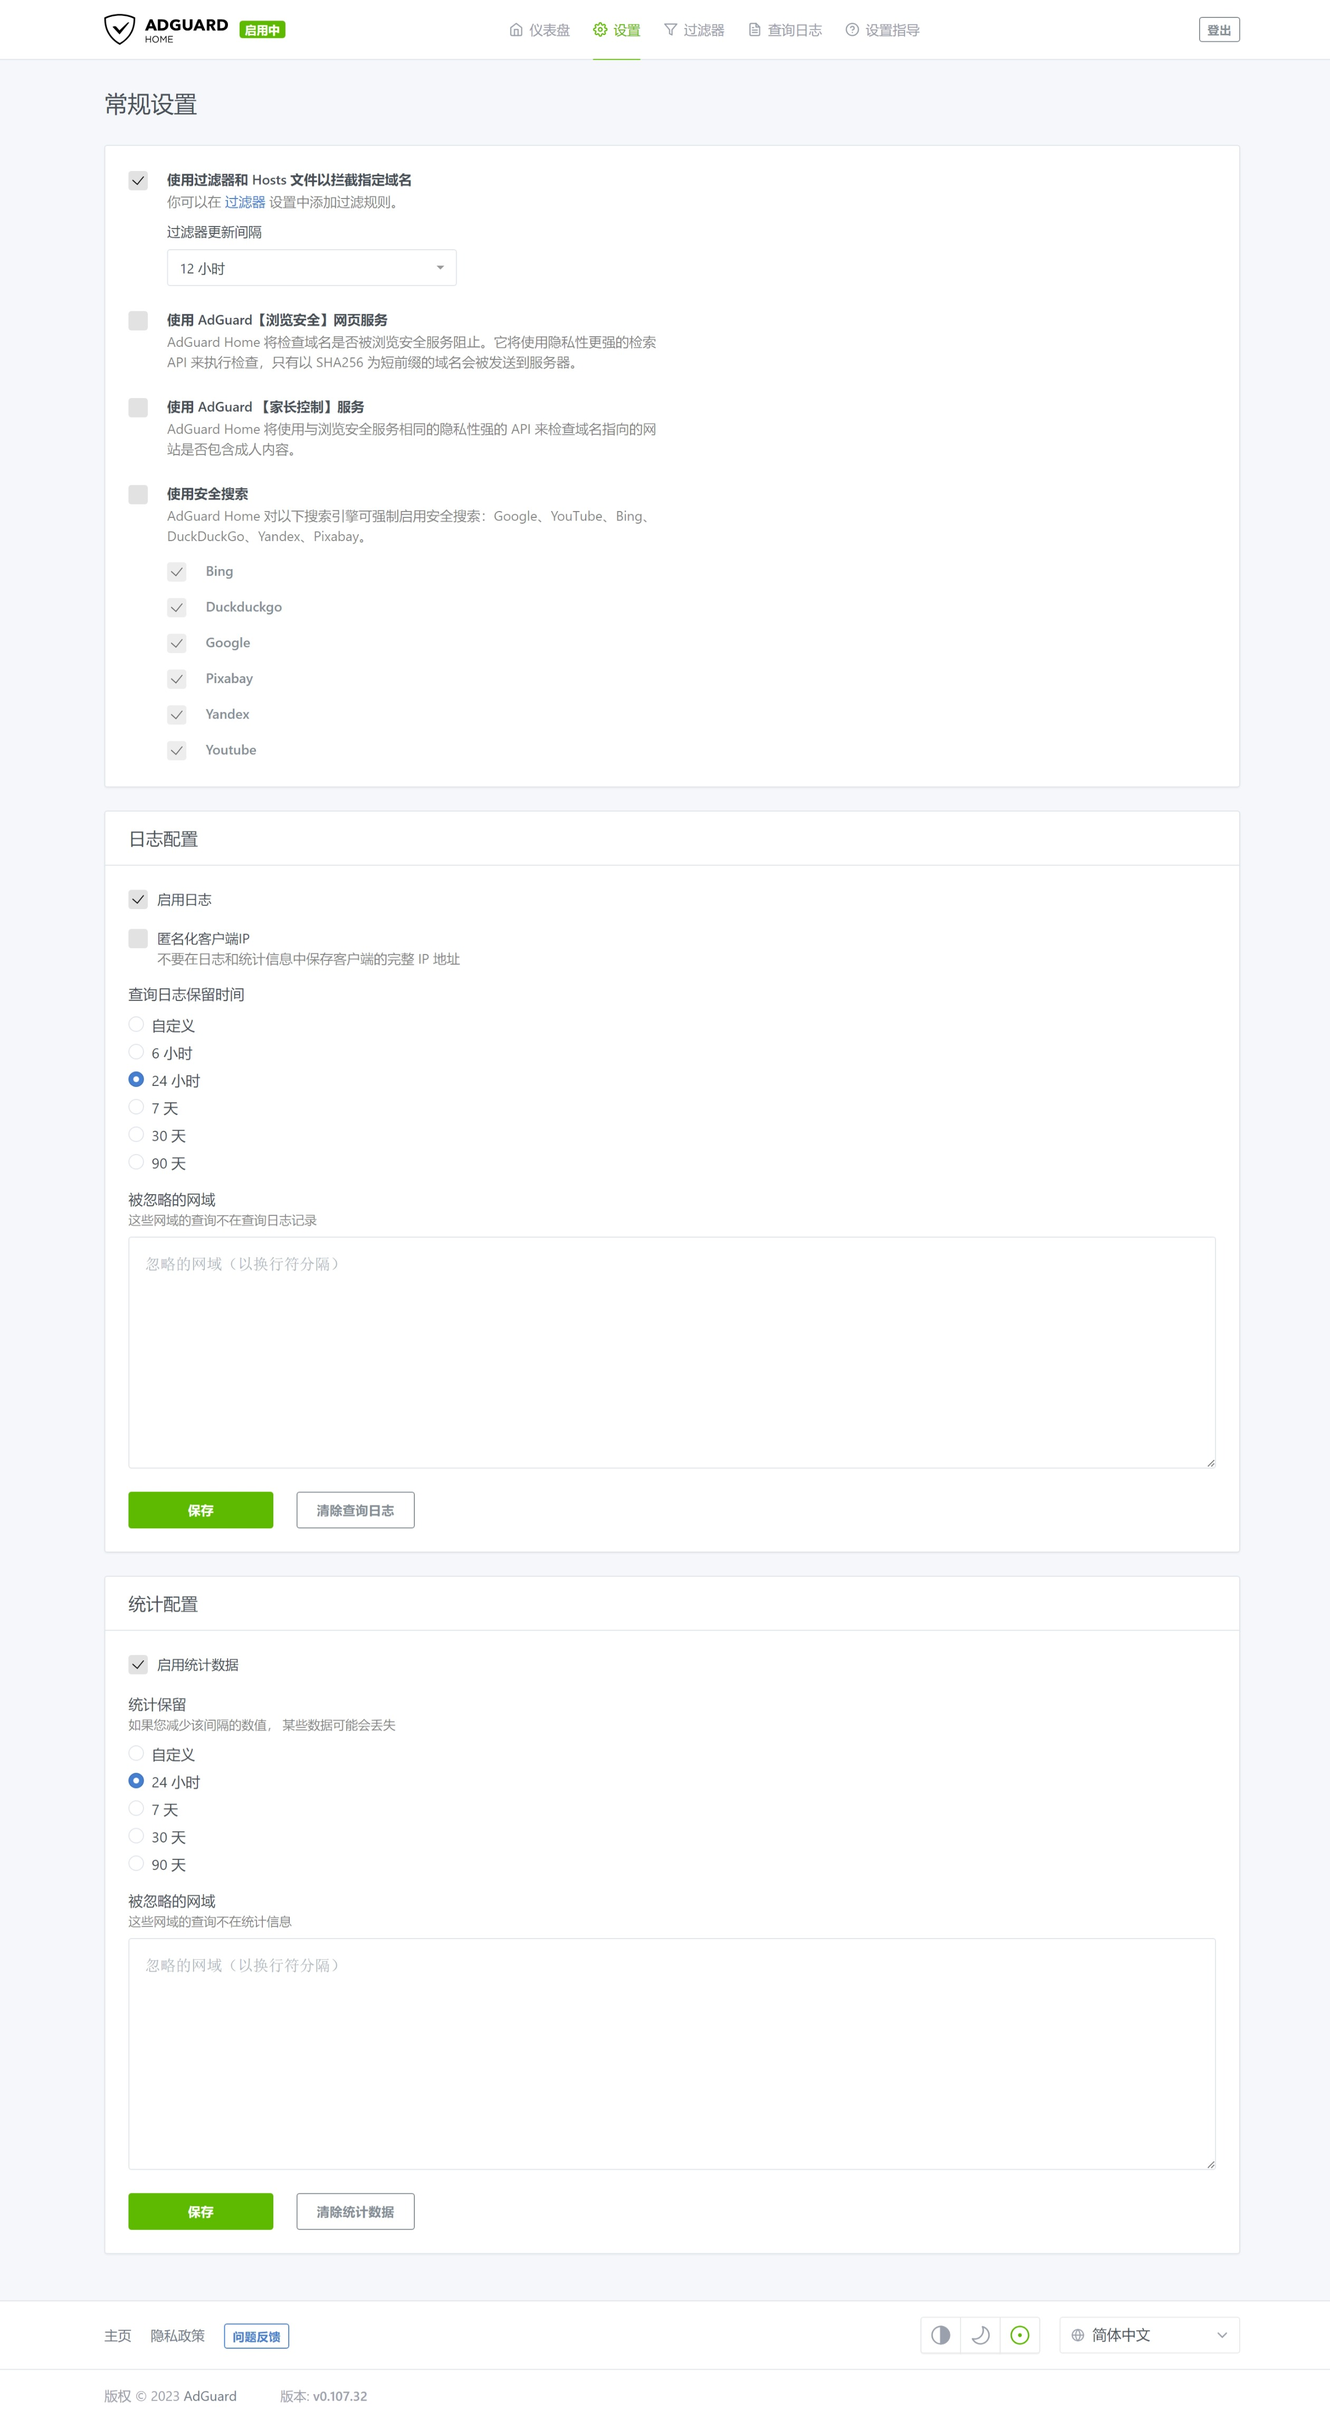
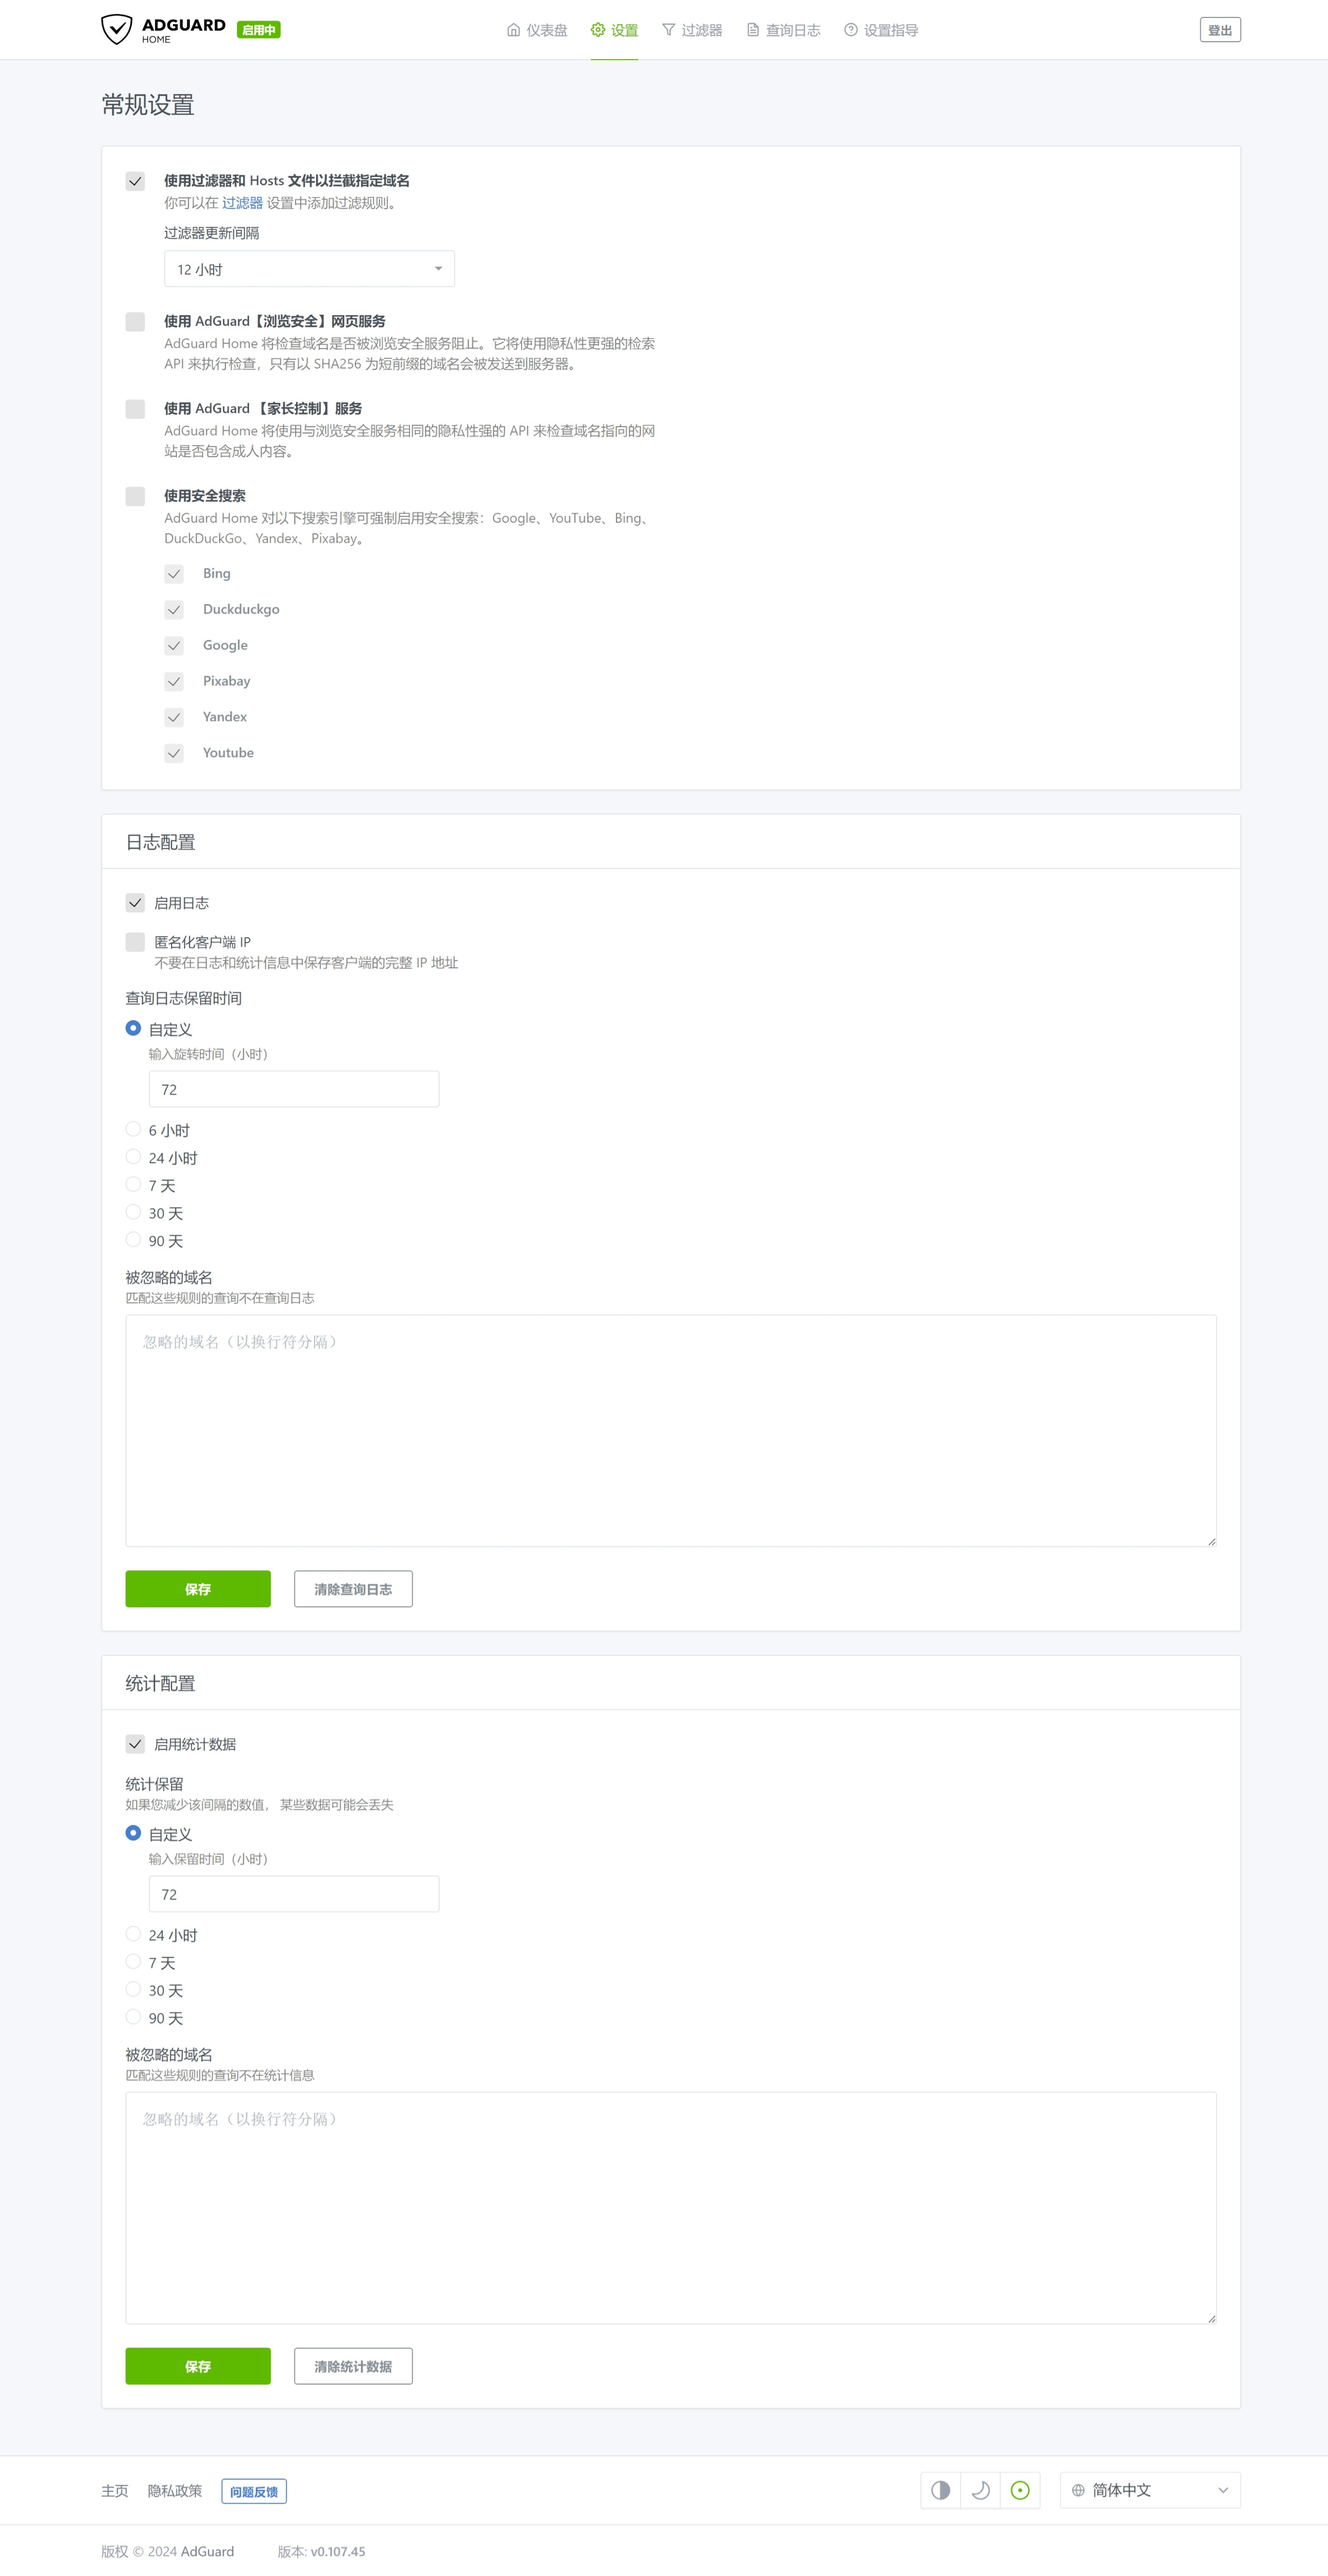
同步更新

diff --git a/01.AGH功能设置.md b/01.AGH功能设置.md
@@ -23,9 +23,9 @@ Adguard Home 的仪表盘将显示近期的一些统计数据。
 |常规设置|使用过滤器和 Hosts 文件以拦截指定域名|勾选|开启 DNS 过滤|
 ||过滤器更新间隔|`12 小时`|`过滤器` 更新周期|
 |日志配置|启用日志|勾选|开启 DNS 查询日志记录|
-||查询日志保留时间|`24 小时`|保留查询日志记录的时长|
+||查询日志保留时间|`72 小时`|保留查询日志记录的时长|
 |统计配置|启用统计数据|勾选|开启 DNS 查询统计|
-||统计保留|`24 小时`|保留查询统计的时长|
+||统计保留|`72 小时`|保留查询统计的时长|
 
 在 `常规设置` 页面，将 `过滤器` 的更新周期设置为 `12小时` ：
 
@@ -41,7 +41,9 @@ Adguard Home 的仪表盘将显示近期的一些统计数据。
 
 ### 4.1.上游 DNS 服务器
 
-国内常用 DoQ / DoT / DoH 服务器地址如下。
+在 `上游 DNS 服务器` 文本框中输入 DoQ / DoT / DoH 服务器地址后，选择 `负载均衡` 。  
+
+国内常用 DoQ / DoT / DoH 服务器地址如下。  
 
 ```bash
 ## DoQ 服务器
@@ -58,11 +60,7 @@ https://dns.alidns.com/dns-query
 https://dns.ipv6dns.com/dns-query
 ```
 
-在 `上游 DNS 服务器` 文本框中输入的 DoQ / DoT / DoH 服务器地址，并选择 `负载均衡` 。  
-
-某些场景下，可能需要额外指定 DNS 服务器来解析内网域名。  
-
-在 `上游 DNS 服务器` 中添加内网域名 DNS 服务器即可，一般为主路由的 IP 地址。  
+某些场景下，需额外指定 DNS 服务器来解析内网域名，在 `上游 DNS 服务器` 中添加对应 DNS 服务器参数即可。  
 
 这里以 `fox.home.arpa` 和 `172.16.1.1` 为演示。  
 
@@ -101,7 +99,7 @@ tcp://2400:3200::1
 
 点击 `应用` ，再点击 `测试上游 DNS` ，Adguard Home 会对配置进行自动确认。  
 
-![DNS设置](img/p01/web_dns_all_kind.png)
+![DNS设置](img/p01/web_dns_all_kind.jpeg)
 
 ### 4.2. DNS 服务配置
 
@@ -115,13 +113,13 @@ tcp://2400:3200::1
 
 `拦截模式` 保持 `默认` 。  
 
-![DNS服务配置](img/p01/web_dns_service.png)
+![DNS服务配置](img/p01/web_dns_service.jpeg)
 
 ### 4.3. DNS 缓存配置
 
 默认的 `缓存大小` 参数过小，建议修改为 `10485760` ，计算方式为 `10Mb x 1024 x 1024` 。  
 
-![DNS缓存配置](img/p01/web_dns_cache.png)
+![DNS缓存配置](img/p01/web_dns_cache.jpeg)
 
 ### 4.4. DNS 访问设置
 
@@ -136,7 +134,7 @@ fe80::/10
 ::1
 ```
 
-![DNS访问控制](img/p01/web_dns_acl.png)
+![DNS访问控制](img/p01/web_dns_acl.jpeg)
 
 ## 5. DNS 拦截
 
